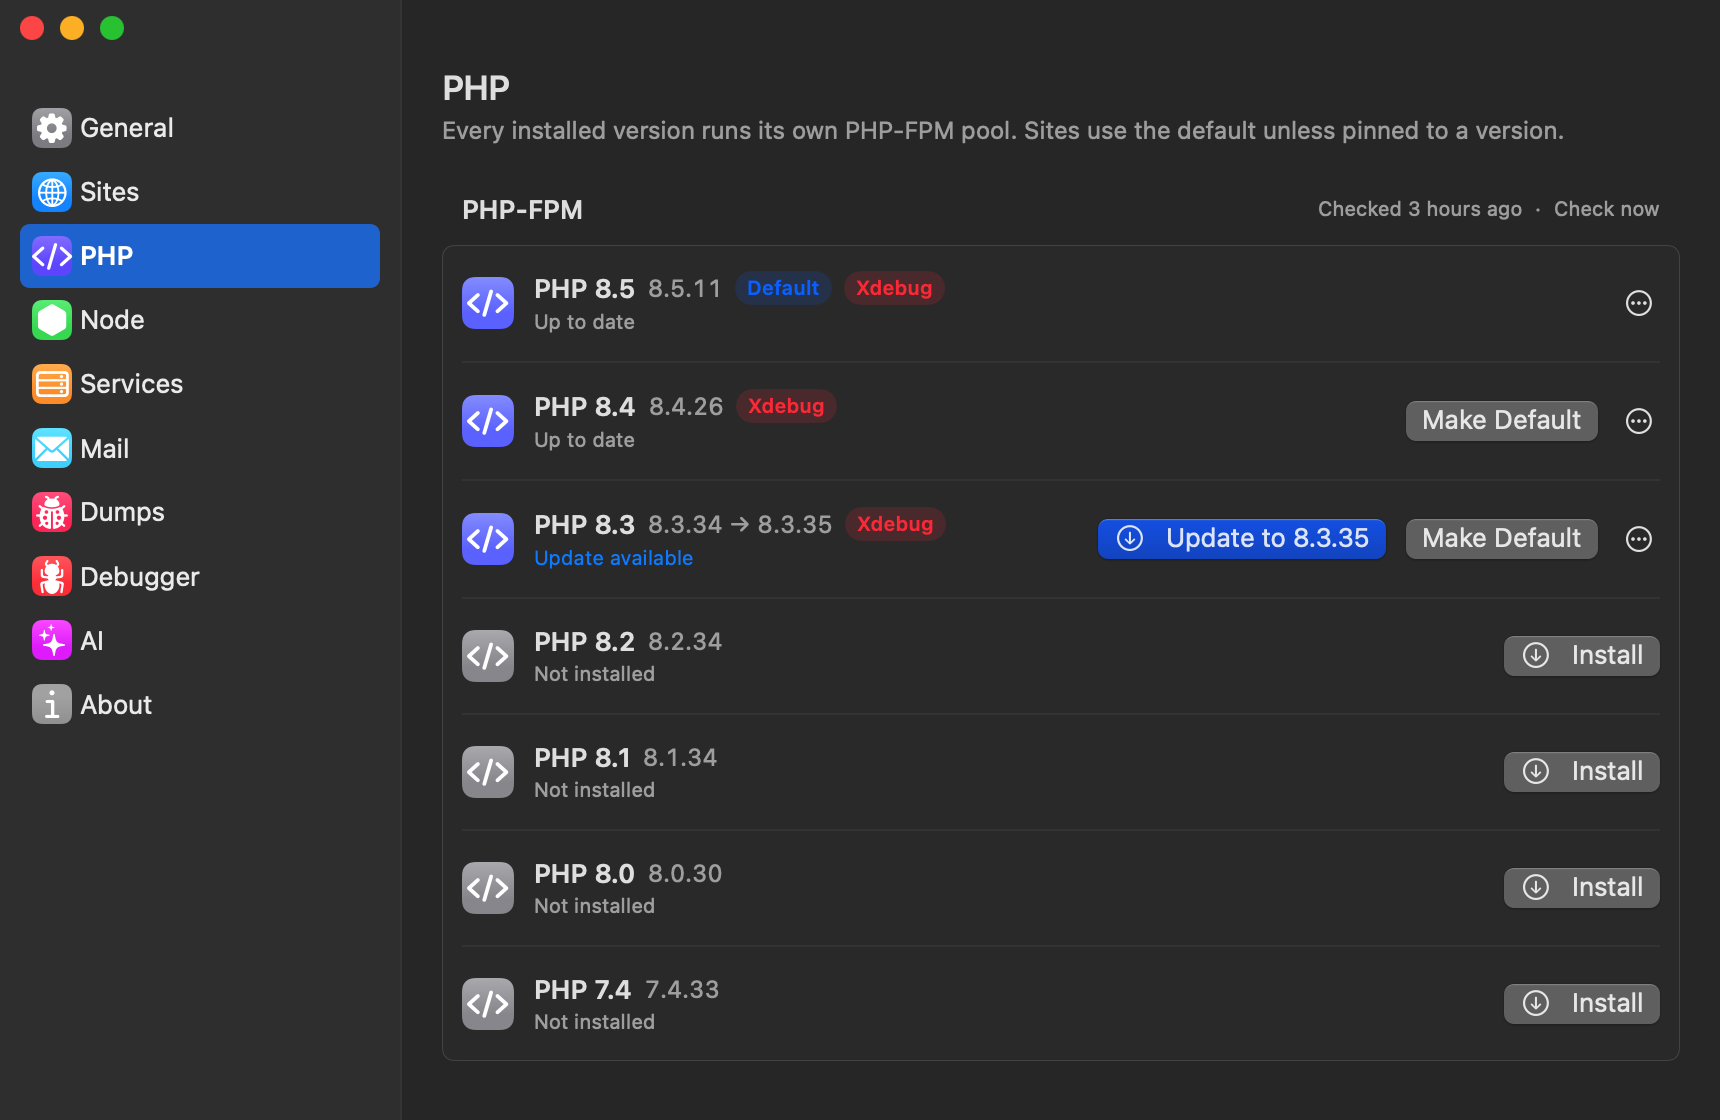
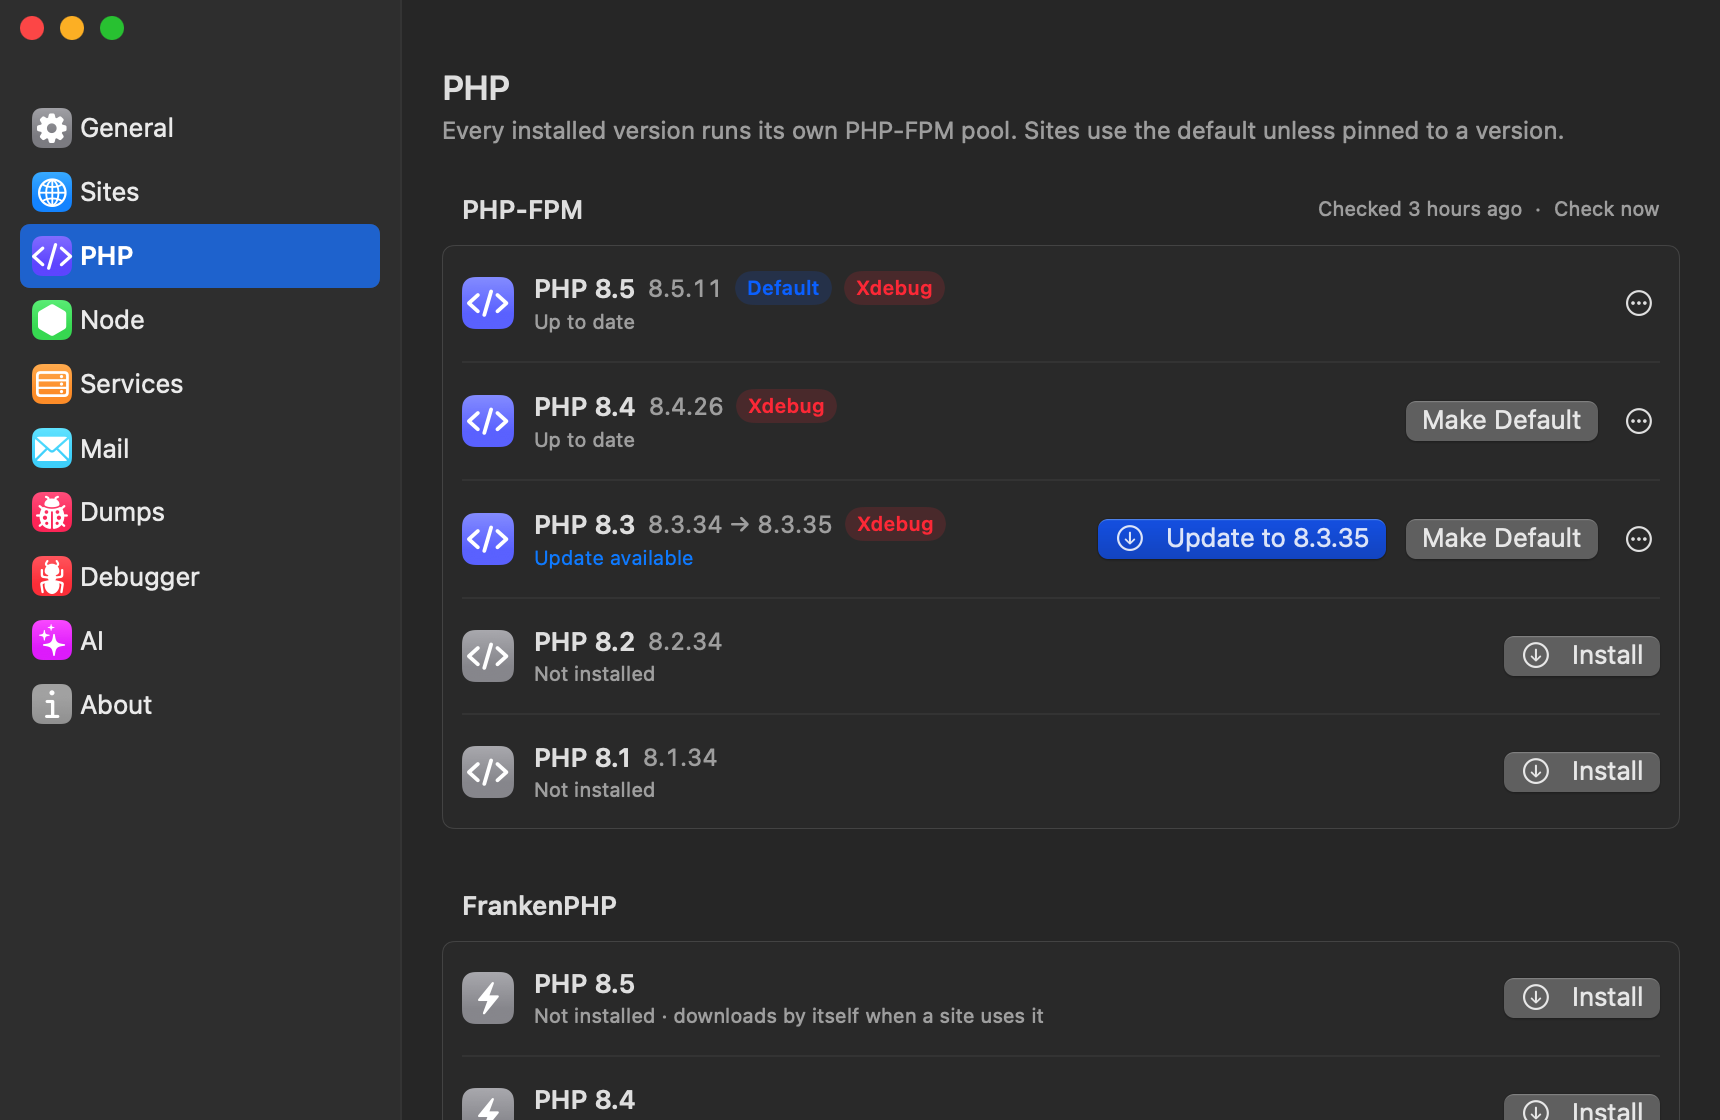
fix(screenshots): macOS PHP screenshot without the Windows-only PHP 7.4 and 8.0

diff --git a/macos/Sources/FlockScreenshots/FakeDaemon.swift b/macos/Sources/FlockScreenshots/FakeDaemon.swift
@@ -126,7 +126,8 @@ final class FakeDaemon: @unchecked Sendable {
     }
 }
 
-/// What tells the fixtures (written on Windows) from a Mac's daemon.
+/// What tells the fixtures (written on Windows) from a Mac's daemon: paths, PHP-FPM pools, the
+/// DNS server's port, no hosts file, Redis and Typesense, PHP from 8.1 on.
 enum MacFixtures {
     /// The Windows-only parts of the answer for a fixture, swapped for what macOS has.
     static func adapt(json text: String, name: String) -> String {
@@ -143,6 +144,12 @@ enum MacFixtures {
         case "services":
             // Windows resolves *.test through the hosts file; macOS has a resolver for the TLD.
             value = (value as? [[String: Any]])?.filter { $0["id"] as? String != "hosts" }.map(offered).map(dnsPort) ?? value
+        case "php_versions":
+            // PHP 7.4 and 8.0 are Windows-only.
+            if var versions = value as? [String: Any], let list = versions["versions"] as? [[String: Any]] {
+                versions["versions"] = list.filter { !["7.4", "8.0"].contains($0["minor"] as? String ?? "") }
+                value = versions
+            }
         case "catalog":
             if var catalog = value as? [String: Any] {
                 catalog["services"] = (catalog["services"] as? [[String: Any]])?.map(offered)
